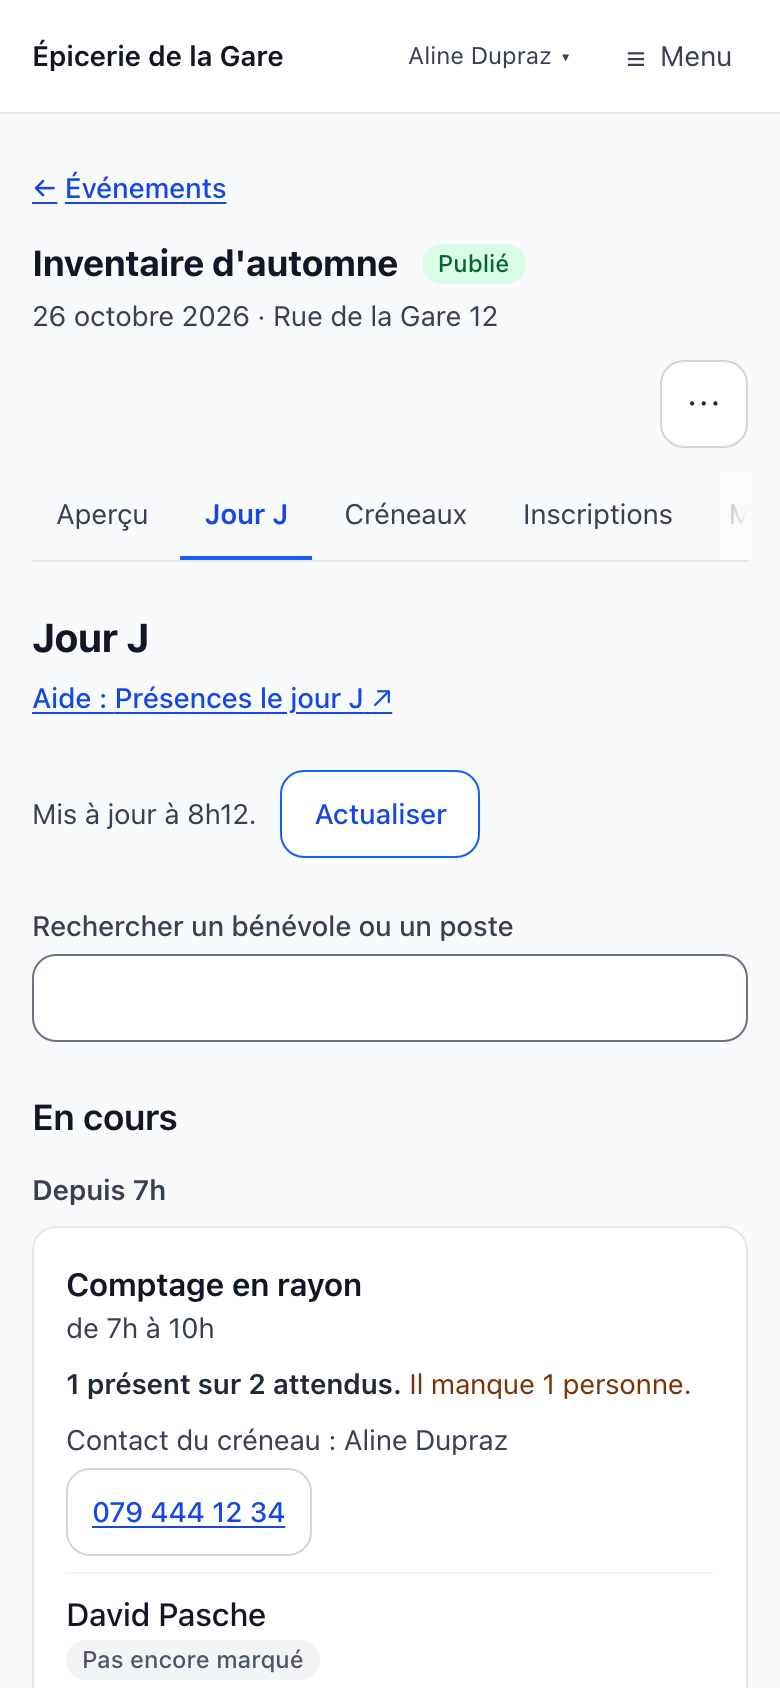
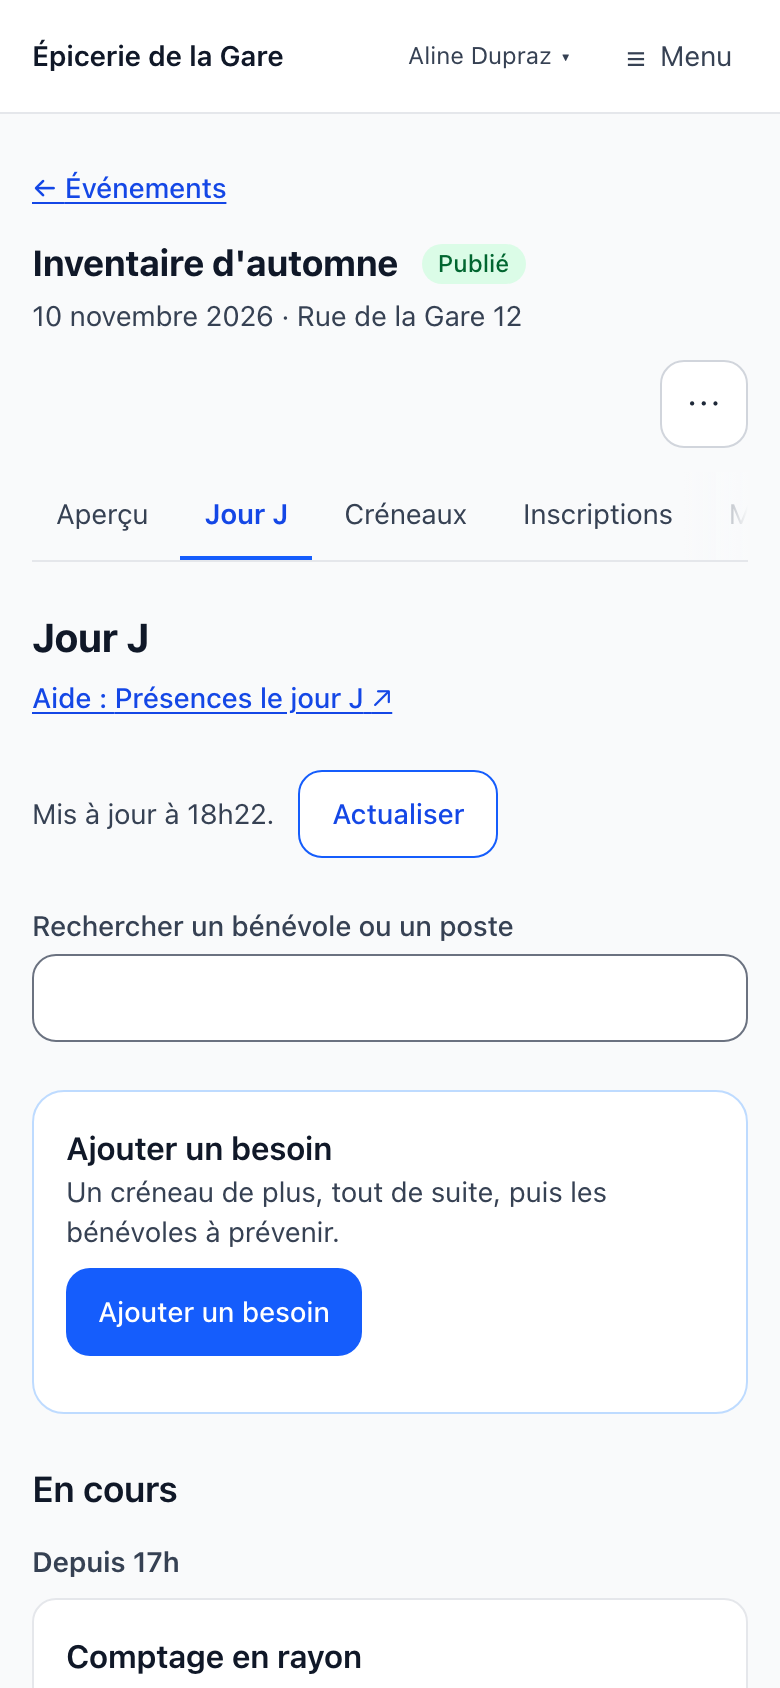
docs(day-of): capture the day-of page with « Ajouter un besoin »
Closes #1304

diff --git a/content/guide/presences-le-jour-j.md b/content/guide/presences-le-jour-j.md
@@ -26,7 +26,7 @@ De la veille du premier jour au dernier jour de l'événement, ses pages affiche
 - La page se met à jour seule toutes les 25 secondes environ tant qu'elle est ouverte à l'écran, et dès que vous y revenez ou que le réseau revient : une présence marquée sur un autre téléphone y apparaît sans rien toucher. Votre recherche, la personne que vous êtes en train de marquer et votre position dans la page restent en place. L'heure de la dernière mise à jour réussie est affichée au-dessus ; sans réseau, ou si la mise à jour n'aboutit pas, un encadré le dit et rappelle l'heure de la liste affichée. **Actualiser** relit la liste tout de suite.
 - En bas, des liens vers les inscriptions, « Où manque-t-il du monde ? » et l'écriture aux bénévoles.
 
-![Page « Jour J » sur un téléphone : l'heure de mise à jour avec le bouton « Actualiser », la recherche, puis « Ajouter un besoin » et « En cours » : le créneau Comptage en rayon de 16 h à 19 h, « 1 présent sur 2 attendus. Il manque 1 personne. », le contact du créneau, Aline Dupraz, avec son téléphone, puis David Pasche « Pas encore marqué » avec le bouton « Marquer présent » et Céline Ruchet « Présent » avec le bouton « Annuler la présence », chacun avec son téléphone](/doc-img/admin-day-of.png)
+![Page « Jour J » sur un téléphone : l'heure de mise à jour avec le bouton « Actualiser », la recherche, puis « Ajouter un besoin » et « En cours » : le créneau Comptage en rayon en cours, « 1 présent sur 2 attendus. Il manque 1 personne. », le contact du créneau, Aline Dupraz, avec son téléphone, puis David Pasche « Pas encore marqué » avec le bouton « Marquer présent » et Céline Ruchet « Présent » avec le bouton « Annuler la présence », chacun avec son téléphone](/doc-img/admin-day-of.png)
 
 ## Ajouter un besoin
 
